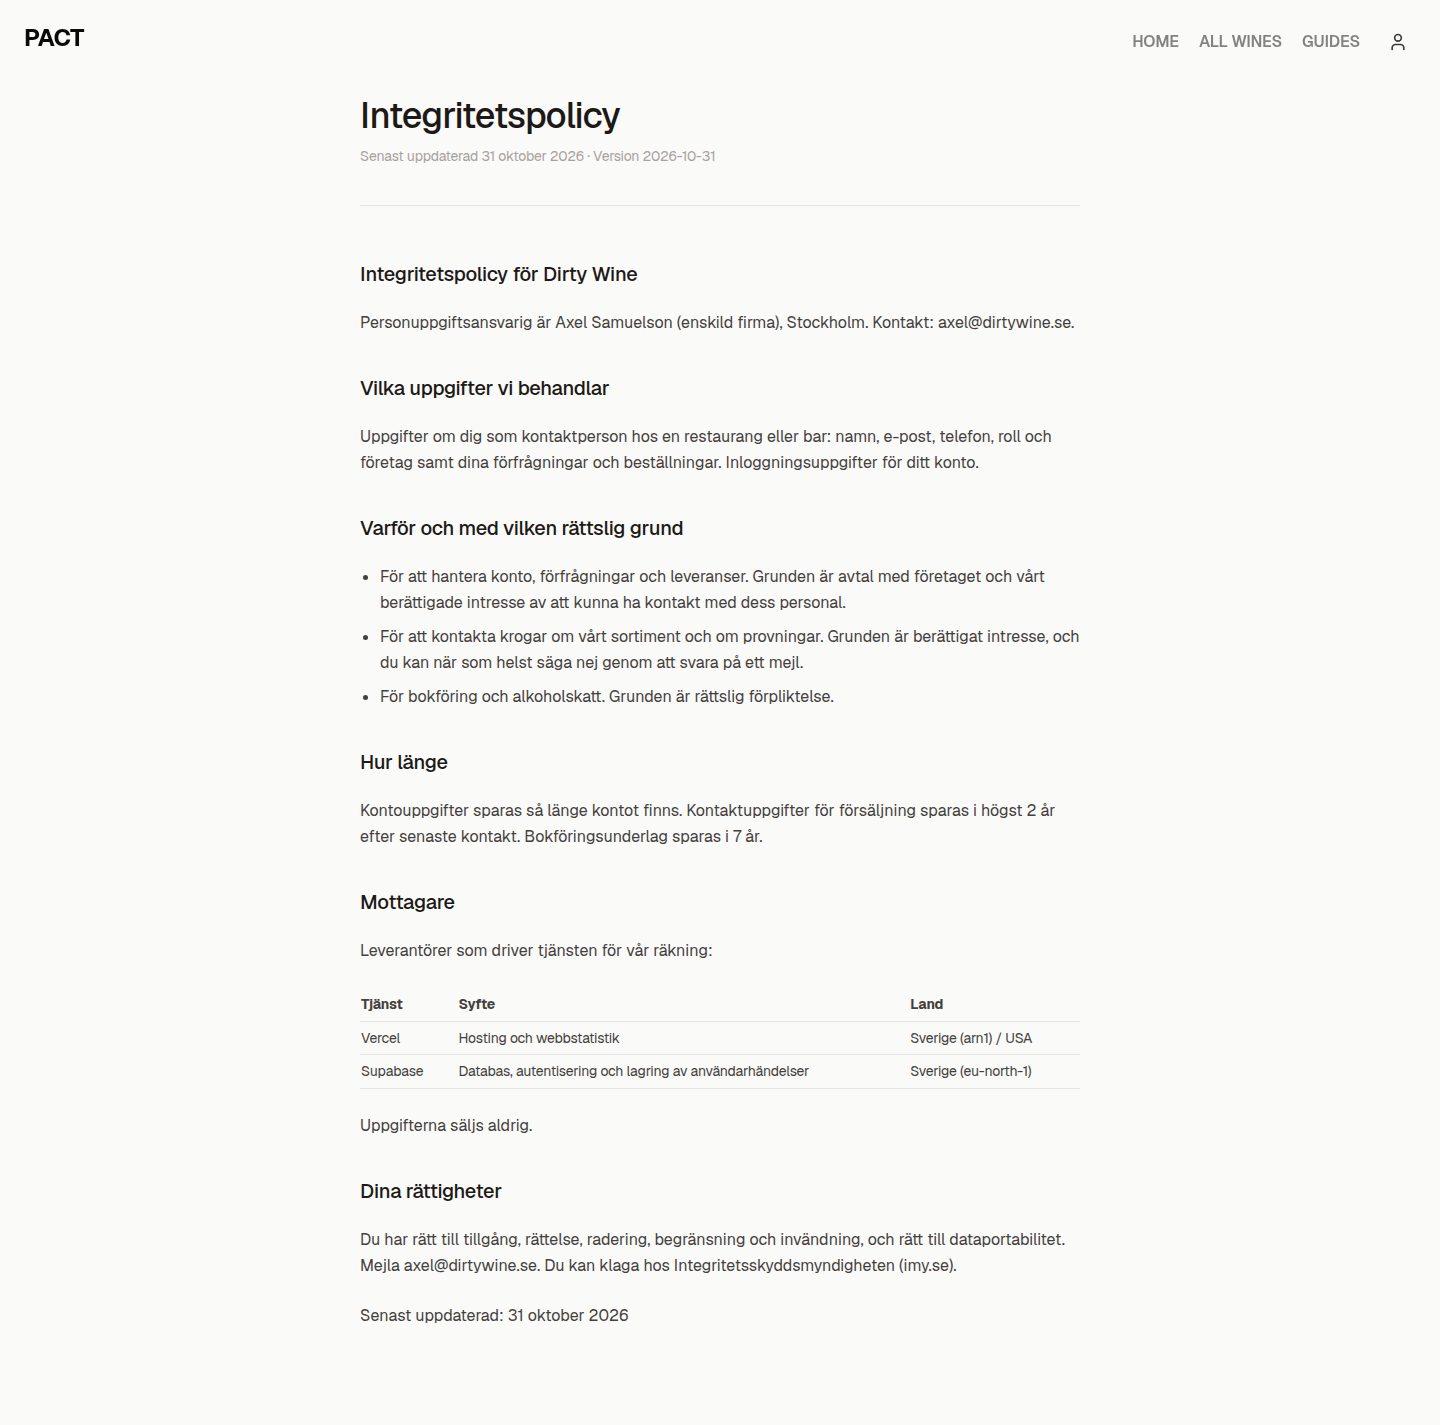
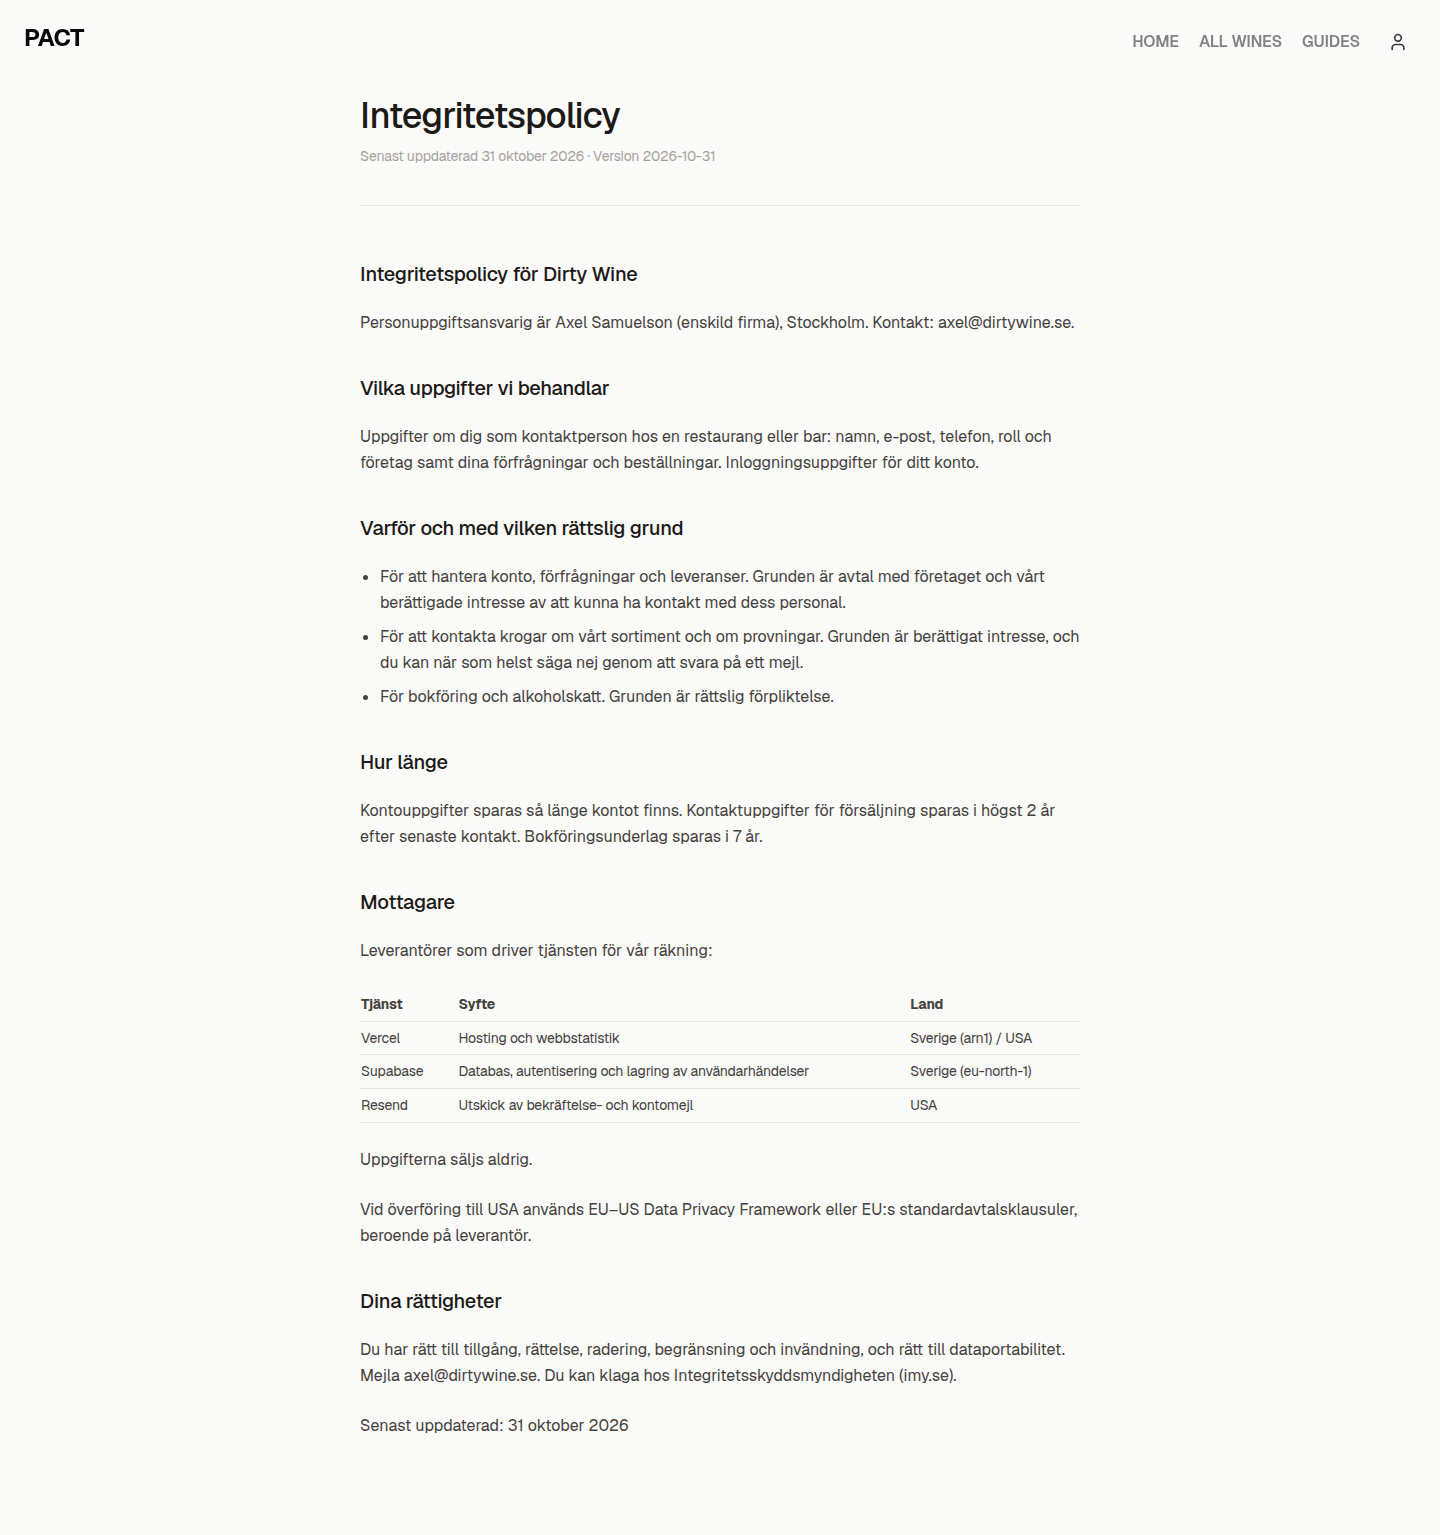
[agent] Dirty Wine privacy: Resend + USA transfer clause
Add Resend (confirmation/account email, USA) to Dirty Wine processors,
backed by PR #116 inquiry mail via lib/email.ts. Add the exact USA
transfer sentence (DPF or SCCs). Refresh 390/1440 screenshots.

diff --git a/lib/__tests__/dirtywine-privacy-policy.test.ts b/lib/__tests__/dirtywine-privacy-policy.test.ts
@@ -1,9 +1,11 @@
 import { describe, expect, it } from "vitest";
+import { readFileSync } from "node:fs";
+import { join } from "node:path";
 
 import { DIRTYWINE_PRIVACY_PROCESSORS } from "@/content/legal/integritetspolicy-dirtywine";
 
 describe("Dirty Wine privacy processors", () => {
-  it("lists only evidenced processors with service, purpose, and country", () => {
+  it("lists evidenced processors including Resend with service, purpose, and country", () => {
     expect(DIRTYWINE_PRIVACY_PROCESSORS).toEqual([
       {
         service: "Vercel",
@@ -15,12 +17,26 @@ describe("Dirty Wine privacy processors", () => {
         purpose: "Databas, autentisering och lagring av användarhändelser",
         country: "Sverige (eu-north-1)",
       },
+      {
+        service: "Resend",
+        purpose: "Utskick av bekräftelse- och kontomejl",
+        country: "USA",
+      },
     ]);
   });
 
-  it("does not claim Resend or Stripe without Dirty Wine evidence", () => {
+  it("includes the exact USA transfer sentence", () => {
+    const src = readFileSync(
+      join(process.cwd(), "content/legal/integritetspolicy-dirtywine.tsx"),
+      "utf8",
+    );
+    expect(src).toContain(
+      "Vid överföring till USA används EU–US Data Privacy Framework eller EU:s standardavtalsklausuler, beroende på leverantör.",
+    );
+  });
+
+  it("does not claim Stripe or Budbee", () => {
     const services = DIRTYWINE_PRIVACY_PROCESSORS.map((p) => p.service);
-    expect(services).not.toContain("Resend");
     expect(services).not.toContain("Stripe");
     expect(services).not.toContain("Budbee");
   });

diff --git a/content/legal/integritetspolicy-dirtywine.tsx b/content/legal/integritetspolicy-dirtywine.tsx
@@ -28,6 +28,11 @@ export const DIRTYWINE_PRIVACY_PROCESSORS = [
     purpose: "Databas, autentisering och lagring av användarhändelser",
     country: "Sverige (eu-north-1)",
   },
+  {
+    service: "Resend",
+    purpose: "Utskick av bekräftelse- och kontomejl",
+    country: "USA",
+  },
 ] as const;
 
 export default function DirtyWineIntegritetspolicyContent({
@@ -97,6 +102,11 @@ export default function DirtyWineIntegritetspolicyContent({
         </tbody>
       </LegalTable>
       <LegalP>Uppgifterna säljs aldrig.</LegalP>
+      <LegalP>
+        {
+          "Vid överföring till USA används EU–US Data Privacy Framework eller EU:s standardavtalsklausuler, beroende på leverantör."
+        }
+      </LegalP>
 
       <LegalH2>Dina rättigheter</LegalH2>
       <LegalP>

diff --git a/content/legal/source/integritetspolicy-dirtywine.sv.md b/content/legal/source/integritetspolicy-dirtywine.sv.md
@@ -24,12 +24,15 @@ Leverantörer som driver tjänsten för vår räkning (belagda i koden):
 
 | Tjänst | Syfte | Land | Källa |
 | --- | --- | --- | --- |
-| Vercel | Hosting och webbstatistik | Sverige (arn1) / USA | `vercel.json` `regions: ["arn1"]`; `package.json` `@vercel/analytics`; `components/analytics/root-analytics-deferred.tsx` i `app/layout.tsx` |
+| Vercel | Hosting och webbstatistik | Sverige (arn1) / USA | `vercel.json` `regions: ["arn1"]`; `package.json` `@vercel/analytics`; `components/analytics/root-analytics-deferred.tsx` i `app/layout.tsx`. Vercel DPA: primär behandling i USA. |
 | Supabase | Databas, autentisering och lagring av användarhändelser | Sverige (eu-north-1) | `package.json` `@supabase/*`; `NEXT_PUBLIC_SUPABASE_URL`; projektregion `eu-north-1`; `lib/analytics/event-tracker.ts` → `user_events` |
+| Resend | Utskick av bekräftelse- och kontomejl | USA | `package.json` `resend`; `RESEND_API_KEY` / `lib/email.ts`; Dirty Wine inquiry-bekräftelse via Resend i PR #116 (`lib/b2b/inquiry-emails.ts` → `sendEmail`). Resend lagrar kunddata i USA. |
 
 Uppgifterna säljs aldrig.
 
-**Ej medtagna (saknar Dirty Wine-specifik beläggning för kontaktperson-PII):** Resend (`RESEND_API_KEY` / `lib/email.ts`) används i den delade plattformen för PACT-transaktionsmail; Dirty Wine-lösenordsåterställning går via Supabase Auth (`app/api/auth/forgot-password/route.ts`). Stripe/Budbee är PACT B2C-flöden.
+Vid överföring till USA används EU–US Data Privacy Framework eller EU:s standardavtalsklausuler, beroende på leverantör.
+
+**Ej medtagna:** Stripe/Budbee är PACT B2C-flöden.
 
 ## Dina rättigheter
 
